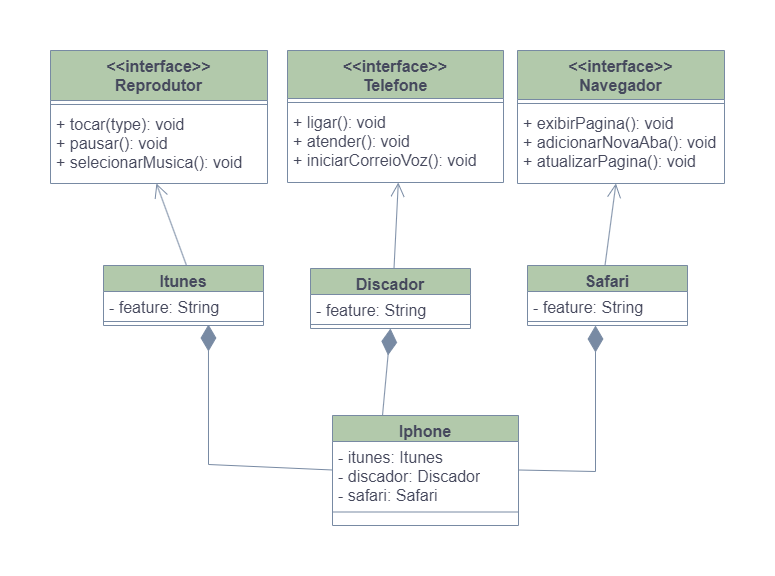
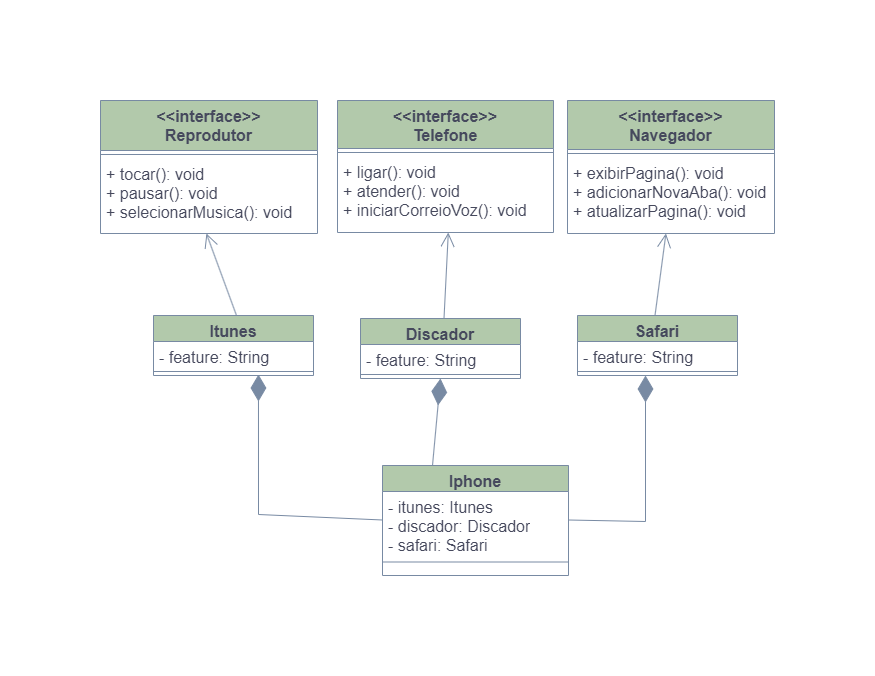
Criado classes e interfaces

diff --git a/src/models/Iphone.java b/src/models/Iphone.java
@@ -1,0 +1,40 @@
+package models;
+
+public class Iphone {
+
+    private Discador discador;
+
+    private  Itunes itunes;
+
+    private Safari safari;
+
+    public Iphone(Discador discador, Itunes itunes, Safari safari) {
+        this.discador = discador;
+        this.itunes = itunes;
+        this.safari = safari;
+    }
+
+    public Itunes getItunes() {
+        return itunes;
+    }
+
+    public void setItunes(Itunes itunes) {
+        this.itunes = itunes;
+    }
+
+    public Safari getSafari() {
+        return safari;
+    }
+
+    public void setSafari(Safari safari) {
+        this.safari = safari;
+    }
+
+    public Discador getDiscador() {
+        return discador;
+    }
+
+    public void setDiscador(Discador discador) {
+        this.discador = discador;
+    }
+}

diff --git a/src/Main.java b/src/Main.java
@@ -2,16 +2,6 @@
 // then press Enter. You can now see whitespace characters in your code.
 public class Main {
     public static void main(String[] args) {
-        // Press Alt+Enter with your caret at the highlighted text to see how
-        // IntelliJ IDEA suggests fixing it.
-        System.out.printf("Hello and welcome!");
 
-        // Press Shift+F10 or click the green arrow button in the gutter to run the code.
-        for (int i = 1; i <= 5; i++) {
-
-            // Press Shift+F9 to start debugging your code. We have set one breakpoint
-            // for you, but you can always add more by pressing Ctrl+F8.
-            System.out.println("i = " + i);
-        }
     }
 }

diff --git a/src/models/Safari.java b/src/models/Safari.java
@@ -1,0 +1,27 @@
+package models;
+
+import interfaces.NavegadorInterface;
+
+public class Safari implements NavegadorInterface {
+
+    private String feature;
+
+    public Safari(String feature) {
+        this.feature = feature;
+    }
+
+    @Override
+    public void exibirPagina() {
+
+    }
+
+    @Override
+    public void adicionarNovaAba() {
+
+    }
+
+    @Override
+    public void atualizarPagina() {
+
+    }
+}

diff --git a/src/models/Discador.java b/src/models/Discador.java
@@ -1,0 +1,26 @@
+package models;
+
+import interfaces.TelefoneInterface;
+
+public class Discador implements TelefoneInterface {
+    private String feature;
+
+    public Discador(String feature) {
+        this.feature = feature;
+    }
+
+    @Override
+    public void ligar() {
+
+    }
+
+    @Override
+    public void atender() {
+
+    }
+
+    @Override
+    public void iniciarCorreioDevoz() {
+
+    }
+}

diff --git a/src/models/Itunes.java b/src/models/Itunes.java
@@ -1,0 +1,27 @@
+package models;
+
+import interfaces.ReprodutorInterface;
+
+public class Itunes implements ReprodutorInterface {
+
+    private String feature;
+
+    public Itunes(String feature) {
+        this.feature = feature;
+    }
+
+    @Override
+    public void tocar() {
+
+    }
+
+    @Override
+    public void pausar() {
+
+    }
+
+    @Override
+    public void selecionarMusica() {
+
+    }
+}

diff --git a/src/interfaces/NavegadorInterface.java b/src/interfaces/NavegadorInterface.java
@@ -1,0 +1,7 @@
+package interfaces;
+
+public interface NavegadorInterface {
+    void exibirPagina();
+    void adicionarNovaAba();
+    void atualizarPagina();
+}

diff --git a/src/interfaces/TelefoneInterface.java b/src/interfaces/TelefoneInterface.java
@@ -1,0 +1,8 @@
+package interfaces;
+
+public interface TelefoneInterface {
+
+    void ligar();
+    void atender();
+    void iniciarCorreioDevoz();
+}

diff --git a/src/interfaces/ReprodutorInterface.java b/src/interfaces/ReprodutorInterface.java
@@ -1,0 +1,8 @@
+package interfaces;
+
+public interface ReprodutorInterface {
+
+    void tocar();
+    void pausar();
+    void selecionarMusica();
+}
